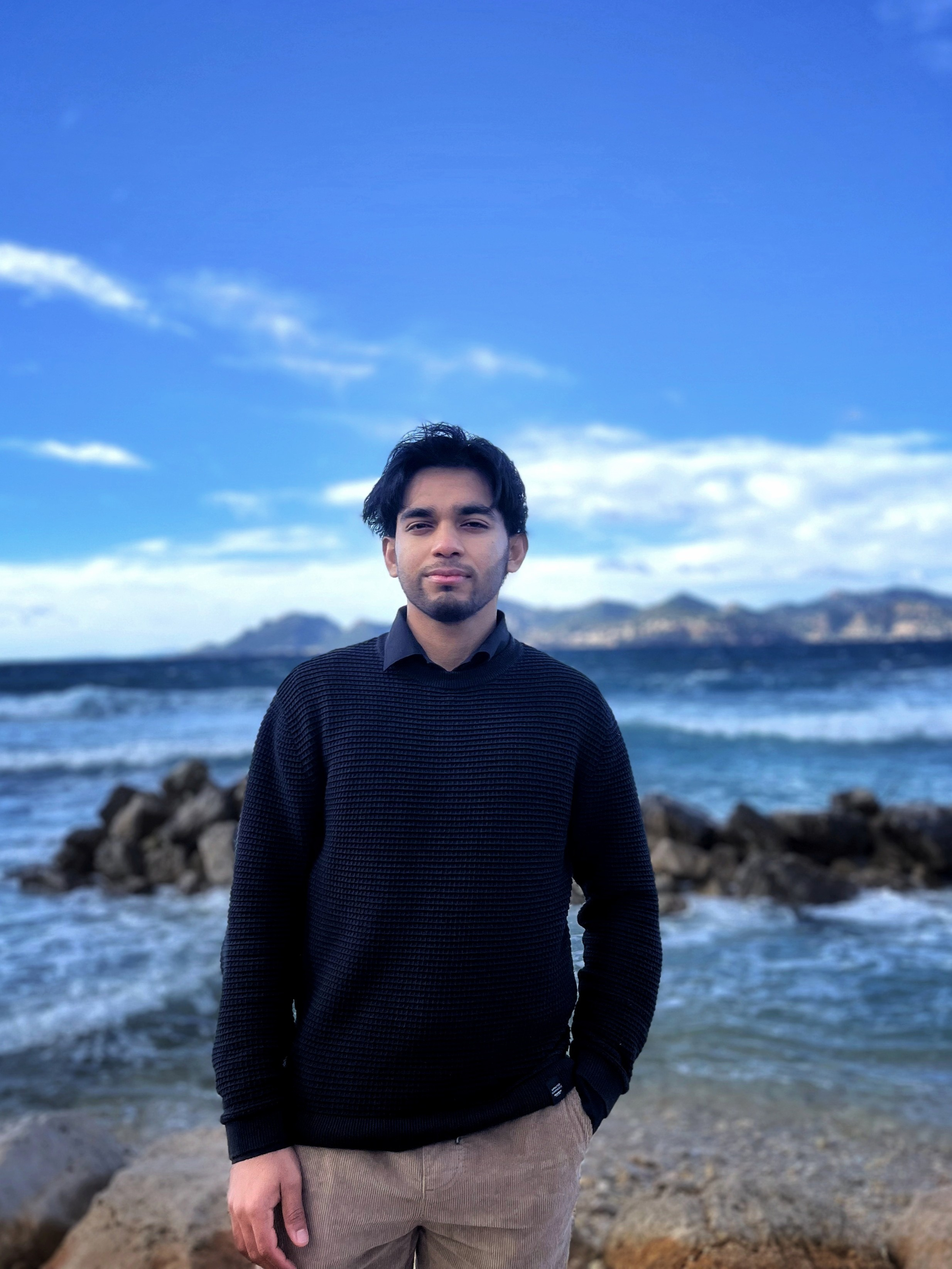
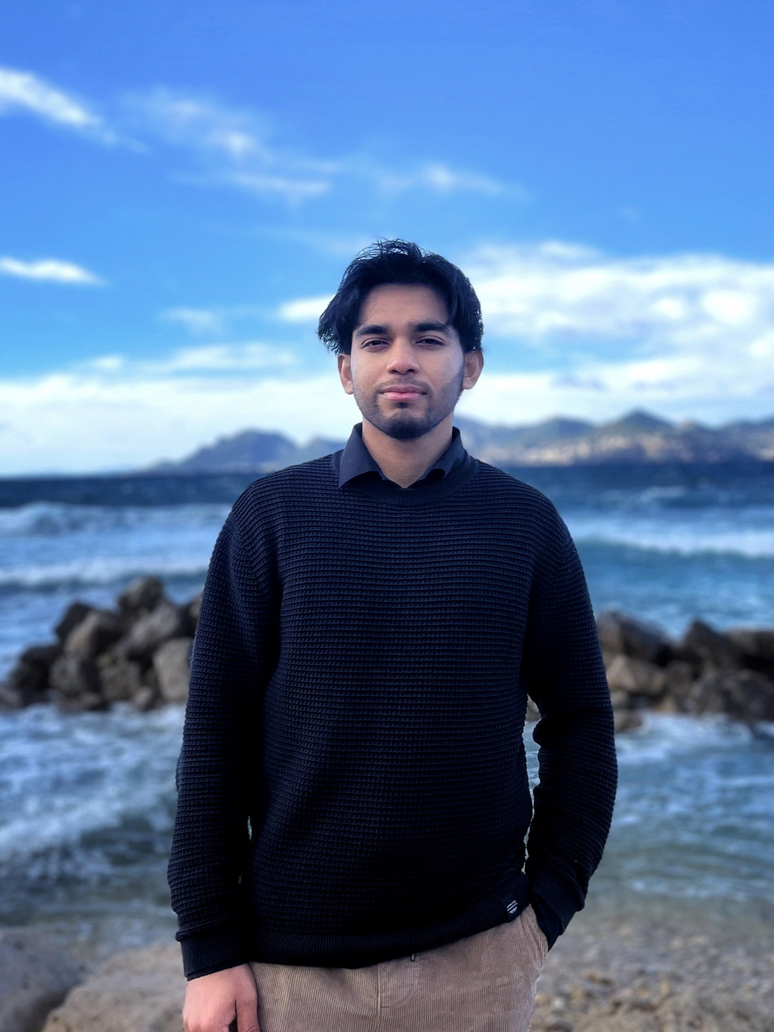
updated

diff --git a/_pages/about.md b/_pages/about.md
@@ -8,10 +8,8 @@ redirect_from:
 ---
 I am currently in M1, pursuing my MSc in Data Science and Artificial Intelligence at Université Côte d'Azur. I received my Bachelor of Science in Computer Science and Engineering from American International University-Bangladesh [(AIUB)](https://www.aiub.edu/). 
 
-I have been involved in several research projects across diverse domains of artificial intelligence. Most recently, I was part of the development of a Retrieval-Augmented Generation (RAG) system at Mycophyto under the supervision of [Audrey Lami Martinot](https://www.linkedin.com/in/audrey-lamy-martinot/?locale=en_US). This work focused on integrating structured data extraction with Large Language Models (LLMs) to retrieve domain-specific knowledge on arbuscular mycorrhizal fungi. Previously, during my undergraduate studies, I completed my thesis on NLP under the supervision of Prof. [Md Kishor Morol](https://www.linkedin.com/in/kishormorol/). I also participated in a computer vision project titled Fire Detection From Images and Videos Using YOLOv5, where we proposed an enhanced model, Fire-YOLOv5 to detect fire-like targets in indoor, outdoor, and forest environments under varying natural lighting conditions with Prof. [Md Shakhawat Hossain](https://iub.ac.bd/academics/departments/cse/faculty-and-staff/shakhawat). These experiences have further strengthened my enthusiasm for working at the intersection of computer vision and computational linguistics.
+I have been involved in several research projects across diverse domains of artificial intelligence. Throughout my academic life, I have spent time on Natural Language Processing, Computer Vision and Pattern Recognition and also on Graph Theory and Algorithms.
+My primary research interests include safe super intelligence, agentic AI, computer vision, natural language processing, and graph theory and algorithms. Nonetheless, I remain open to exploring emerging areas of AI and related disciplines.
 
-Besides, I have also worked on graph algorithms with Prof. Dr. [Md Manzurul Hasan](https://www.aiub.edu/faculty-list/faculty-profile#manzurul@aiub.edu), contributing to the solution of an antimagic labeling problem. This experience catalyzed my interest in the intersection of graph theory and artificial intelligence, which continues to influence my current research directions.
 
-My primary research interests include safe and aligned intelligence, agentic AI, computer vision, natural language processing, and graph theory and algorithms. Nonetheless, I remain open to exploring emerging areas of AI and related disciplines.
-
-Outside of academia, I love photography and travelling. Besides, I am a health conscious guy and an enthusiast of sports, particularly football, badminton, and chess. I also like to discuss about theology and politics. Does my life sound like a mess? It isn't actually. Feel free to discuss any of the topics if we happen to cross paths!
+Outside of academia, I am a sport enthusiast. I enjoy outdoor activities such as football, badminton and cycling. I love photography and travelling. Besides, I enjoy discussing about theology and politics too. Feel free to discuss any of the topics if we happen to cross paths! 

diff --git a/_pages/teaching.md b/_pages/teaching.md
@@ -8,9 +8,7 @@ author_profile: true
 
 {% include base_path %}
 
-I have been involved in several research projects across diverse domains of artificial intelligence. Most recently, I was part of the development of a Retrieval-Augmented Generation (RAG) system at Mycophyto under the supervision of [Audrey Lami Martinot](https://www.linkedin.com/in/audrey-lamy-martinot/?locale=en_US). This work focused on integrating structured data extraction with Large Language Models (LLMs) to retrieve domain-specific knowledge on arbuscular mycorrhizal fungi. Previously, during my undergraduate studies, I completed my thesis on NLP under the supervision of Prof. [Md Kishor Morol](https://www.linkedin.com/in/kishormorol/). I also participated in a computer vision project titled Fire Detection From Images and Videos Using YOLOv5, where we proposed an enhanced model, Fire-YOLOv5 to detect fire-like targets in indoor, outdoor, and forest environments under varying natural lighting conditions with Prof. [Md Shakhawat Hossain](https://iub.ac.bd/academics/departments/cse/faculty-and-staff/shakhawat). These experiences have further strengthened my enthusiasm for working at the intersection of computer vision and computational linguistics.
-
-Besides, I have also worked on graph algorithms with Prof. Dr. [Md Manzurul Hasan](https://www.aiub.edu/faculty-list/faculty-profile#manzurul@aiub.edu), contributing to the solution of an antimagic labeling problem. This experience catalyzed my interest in the intersection of graph theory and artificial intelligence, which continues to influence my current research directions.
+Most recently, I was part of the development of a Retrieval-Augmented Generation (RAG) system at Mycophyto under the supervision of [Audrey Lami Martinot](https://www.linkedin.com/in/audrey-lamy-martinot/?locale=en_US). This work focused on integrating structured data extraction with Large Language Models (LLMs) to retrieve domain-specific knowledge on arbuscular mycorrhizal fungi. Previously, during my undergraduate studies, I completed my thesis on NLP under the supervision of Prof. [Md Kishor Morol](https://www.linkedin.com/in/kishormorol/). I also participated in a computer vision project titled Fire Detection From Images and Videos Using YOLOv5, where we proposed an enhanced model with Prof. [Md Shakhawat Hossain](https://iub.ac.bd/academics/departments/cse/faculty-and-staff/shakhawat). Besides, I have also worked on graph algorithms with Prof. Dr. [Md Manzurul Hasan](https://www.aiub.edu/faculty-list/faculty-profile#manzurul@aiub.edu), contributing to the solution of an antimagic labeling problem. 
 
 ## Interests
 

diff --git a/_pages/software.md b/_pages/software.md
@@ -15,10 +15,19 @@ Software Engineer Intern \
 <span style="font-style: italic; font-size: 0.9em;"> • Mainly used C‑Sharp, DotNet framework for building applications. </span>
 
 
-
-
 ## American International University- Bangladesh
 Research Assistant Intern \
 <span style="font-style: italic; font-size: 0.9em;"> • Learned how to train and build a machine learning model.</span> \
 <span style="font-style: italic; font-size: 0.9em;"> • Analyzed and reviewed research papers, enhancing analytical skills.</span> \
 <span style="font-style: italic; font-size: 0.9em;"> • Organized course curriculum on data structures & algorithms.</span>
+
+
+## INRIA
+Machine Learning Intern \
+<span style="font-style: italic; font-size: 0.9em;"> • Built and compared LSTM and Transformer models for NCAA tournament outcome prediction (AUC up to 0.8473).</span> \
+<span style="font-style: italic; font-size: 0.9em;"> • Engineered advanced features including Elo ratings and GLM-based team quality metrics. </span>
+<span style="font-style: italic; font-size: 0.9em;"> • Evaluated models using BCE and Brier loss, focusing on performance and probability calibration. </span>
+
+
+
+
